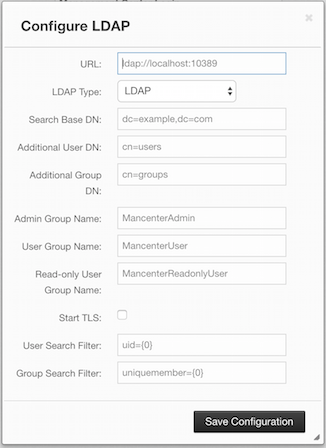
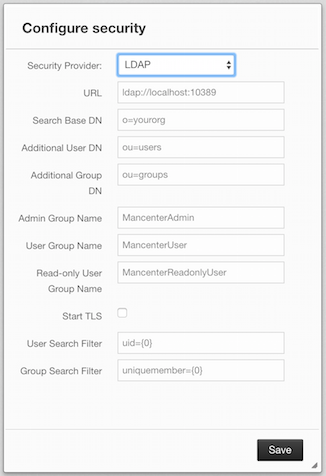
Reviewed PR 253 and updated related sections accordingly.

diff --git a/src/ManagementCenter.md b/src/ManagementCenter.md
@@ -64,13 +64,15 @@ If you have the open source edition of Hazelcast, Management Center can be used 
 
 Once you browse to `http://localhost:8080/mancenter` and since you are going to use Management Center for the first time, the following dialog box appears.
 
-![Signing Up](images/Signup.png)
+![Signing Up](images/ConfigureSecurity.png)
 
 
-![image](images/NoteSmall.jpg) ***NOTE:*** *If you already created an administrator account before, a login dialog box appears instead.*
+![image](images/NoteSmall.jpg) ***NOTE:*** *If you already configured security before, a login dialog box appears instead.*
 
 
-It asks you to create a username and password. Once you press the **Sign Up** button, your administrator account credentials are created and the following dialog box appears.
+It asks you to choose your security provider and create a username and password. Available security providers are Active Directory, LDAP and JAAS, which are described in the following sections. 
+
+Once you press the **Save** button, your administrator account credentials are created and the following dialog box appears.
 
 ![Selecting Cluster to Connect](images/ConnectCluster.png)
 
@@ -99,17 +101,17 @@ To encrypt data transmitted over all channels of Management Center using TLS/SSL
 * Deploy Management Center on a TLS/SSL enabled container. See [Installing Management Center](#installing-management-center).
 * Enable TLS/SSL for your Hazelcast cluster. See [TLS/SSL](#tlsssl)
 * If you're using Clustered JMX on Management center, enable TLS/SSL for it. See [Enabling TLS/SSL for Clustered JMX](#enabling-tlsssl-for-clustered-jmx).
-* If you're using LDAP authentication, make sure you use LDAPS or enable the "Start TLS" field. See [LDAP-Active Directory Authentication](#ldap-active-directory-authentication)
+* If you're using LDAP authentication, make sure you use LDAPS or enable the "Start TLS" field. See [LDAP  Authentication](#ldap-authentication).
 
 ### LDAP Authentication
 
-You can use your existing LDAP server for authentication/authorization on Management Center. Choose LDAP from the Security Provider combobox on the "Configure security" page, and the following form page appears:
+You can use your existing LDAP server for authentication/authorization on Management Center. In the "Configure Security" page, select **LDAP** from the "Security Provider" combo box, and the following form page appears:
 
 ![LDAP Configuration](images/ConfigureLDAP.png)
 
 Provide the details in this form for your LDAP server:
 
-- **URL:** URL of your LDAP/Active Directory server, including schema (`ldap://` or `ldaps://`) and port.
+- **URL:** URL of your LDAP server, including schema (`ldap://` or `ldaps://`) and port.
 - **Search base DN:** Base DN to use for searching users/groups.
 - **Additional user DN:** Appended to "Search base DN" and used for finding users.
 - **Additional group DN:** Appended to "Search base DN" and used for finding groups.
@@ -124,13 +126,13 @@ Once configured, LDAP settings are saved in a file named `ldap.properties` under
  
 ### Active Directory Authentication
  
-You can use your existing Active Directory server for authentication/authorization on Management Center. Choose Active Directory from the Security Provider combobox on the "Configure security" page, and the following form page appears:
+You can use your existing Active Directory server for authentication/authorization on Management Center. In the "Configure Security" page, select **Active Directory** from the "Security Provider" combo, and the following form page appears:
  
 ![Active Directory Configuration](images/ConfigureAD.png)
  
 Provide the details in this form for your Active Directory server:
  
-- **URL:** URL of your LDAP/Active Directory server, including schema (`ldap://` or `ldaps://`) and port.
+- **URL:** URL of your Active Directory server, including schema (`ldap://` or `ldaps://`) and port.
 - **Domain:** Domain of your organization on Active Directory.
 - **Admin Group Name:** Members of this group will have admin privileges on Management Center.
 - **User Group Name:** Members of this group will have read and write privileges on Management Center.
@@ -140,9 +142,9 @@ Once configured, Active Directory settings are saved in a file named `ldap.prope
 
 ### JAAS Authentication
 
-You can use your own `javax.security.auth.spi.LoginModule` implementation for authentication/authorization on Management Center. Choose JAAS from the Security Provider combobox on the "Configure security" page, and the following page appears:
+You can use your own `javax.security.auth.spi.LoginModule` implementation for authentication/authorization on Management Center. In the "Configure Security" page, select **JAAS** from the "Security Provider" combo box, and the following page appears:
 
-![JAAS Configuration](images/JAAS.png)
+![JAAS Configuration](images/ConfigureJAAS.png)
 
 Provide the details in this form for your JAAS `LoginModule` implementation:
 
@@ -151,7 +153,7 @@ Provide the details in this form for your JAAS `LoginModule` implementation:
 - **User Group Name:** Members of this group will have read and write privileges on Management Center.
 - **Read-only User Group Name:** Members of this group will only have read privilege on Management Center.
 
-Following is an example implementation. Note that we return two `java.security.Principal` instances, one of them is the username and the other one is a group name, which you will use when configuring JAAS security as described above.
+Following is an example implementation. Note that we return two `java.security.Principal` instances; one of them is the username and the other one is a group name, which you will use when configuring JAAS security as described above.
 
 ```java
 import javax.security.auth.Subject;

diff --git a/src/DocumentRevisionHistory.md b/src/DocumentRevisionHistory.md
@@ -31,7 +31,7 @@ This chapter lists the changes made to this document from the previous release.
 ||[Hazelcast Striim](#hazelcast-striim-hot-cache)| Added as a new section.
 |[Chapter 18 - Serialization](#serialization)|[Implementing Portable Serialization](#implementing-portable-serialization)|[Ordering Consistency for writePortable](#ordering-consistency-for-writeportable) added as a new section.|
 |[Chapter 19 - Management](#management)|[Diagnostics](#diagnostics)|Added as a new section to explain the diagnostic utility of Hazelcast.|
-||[LDAP-Active Directory Authentication](#ldap-active-directory-authentication)|Added as a new section.
+|||Added [LDAP](#ldap-authentication), [Active Directory](#active-directory-authentication) and [JAAS Authentication](#jaas-authentication) as new sections.
 |||Partial start related content added to [Using REST API for Cluster Management](#using-rest-api-for-cluster-management) and [Using the Script cluster.sh](#using-the-script-clustersh) sections.
 ||[Using the Script cluster.sh](#using-the-script-clustersh)| Updated by adding new operations and parameters related to Rolling Member Upgrade procedures.
 ||[Enabling SSL for Clustered JMX](#enabling-ssl-for-clustered-jmx)|Added as a new section.
